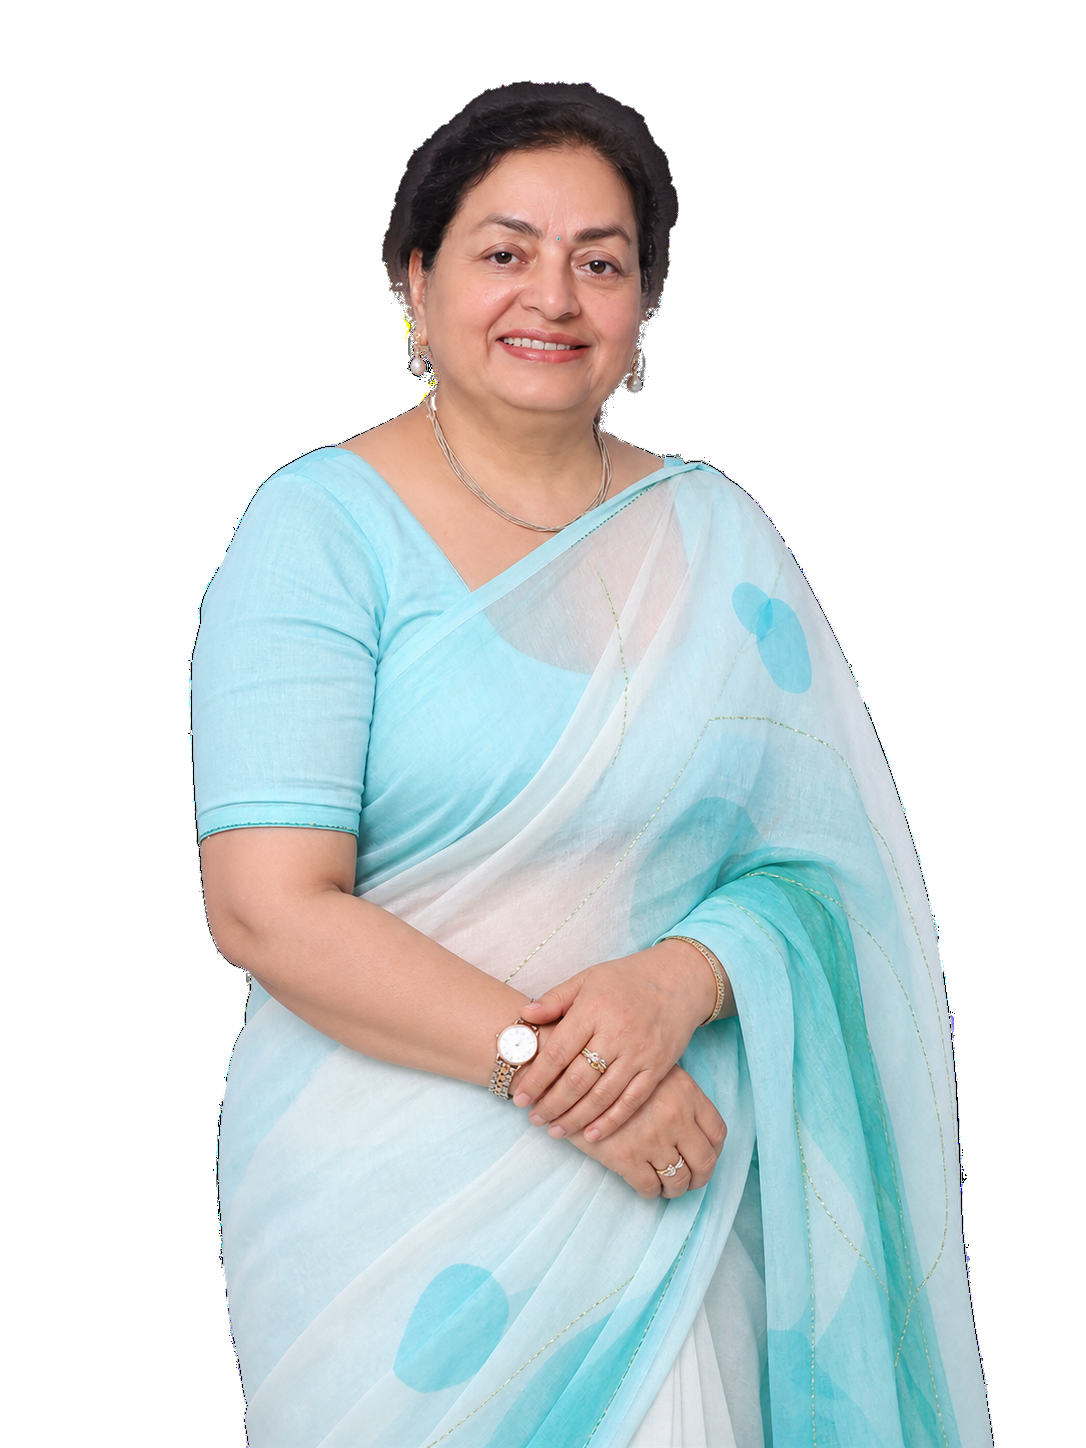
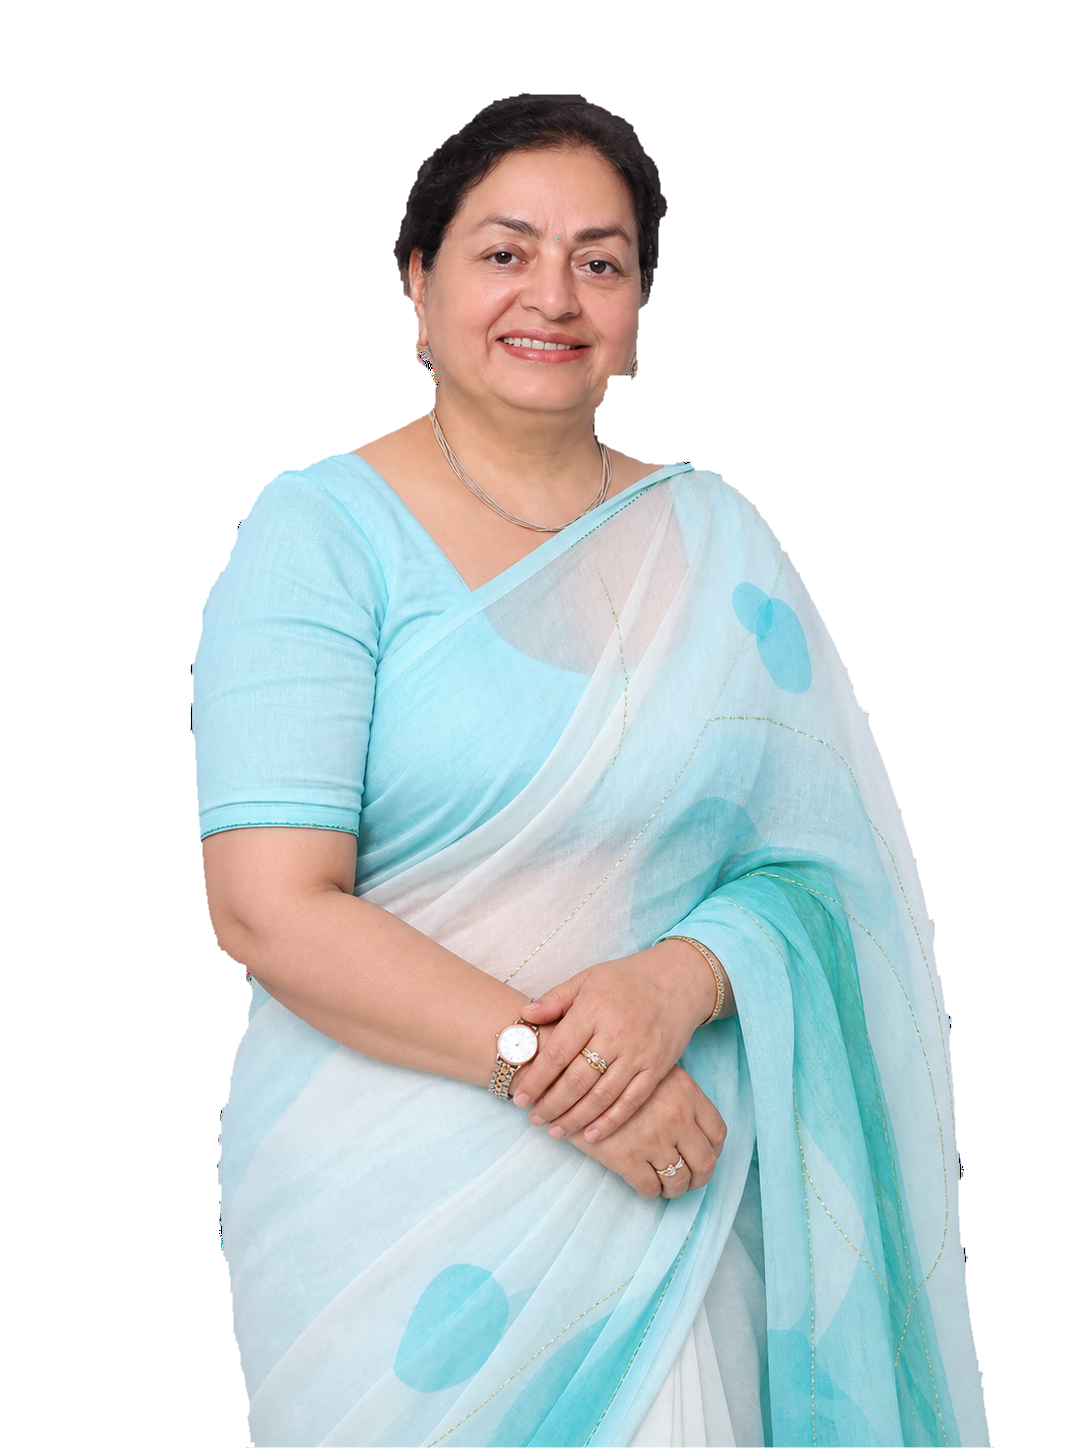
Rebuild the hero portrait matte

diff --git a/src/Component/Home.jsx b/src/Component/Home.jsx
@@ -771,7 +771,7 @@ export default function Home() {
                   animate="animate"
                   className="absolute bottom-0 left-1/2 -translate-x-1/2 h-[120%] w-auto object-contain origin-bottom pointer-events-none z-10"
                   style={{
-                    clipPath: 'polygon(0 0, 100% 0, 100% 50%, 0 50%)'
+                    clipPath: 'polygon(0 0, 100% 0, 100% 18%, 0 18%)'
                   }}
                 />
 
